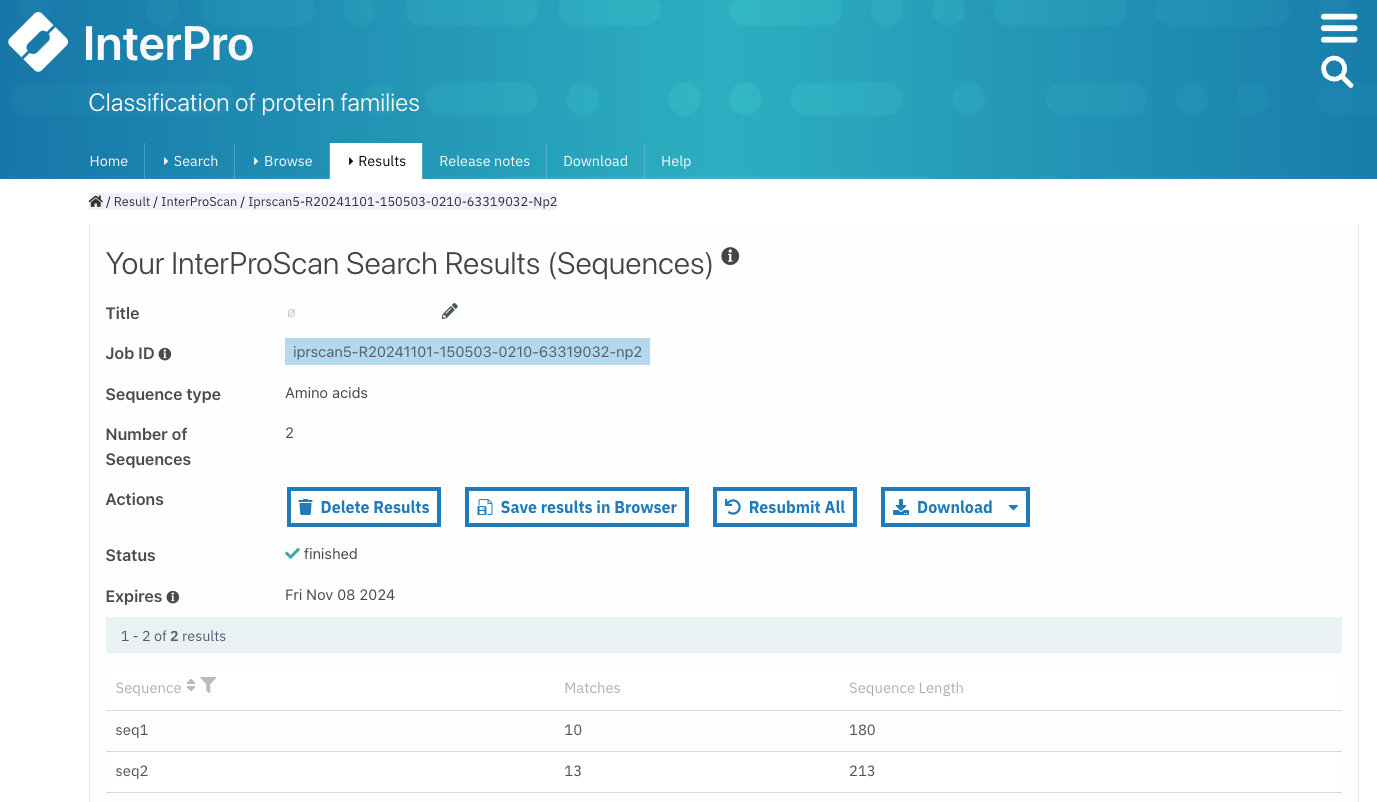
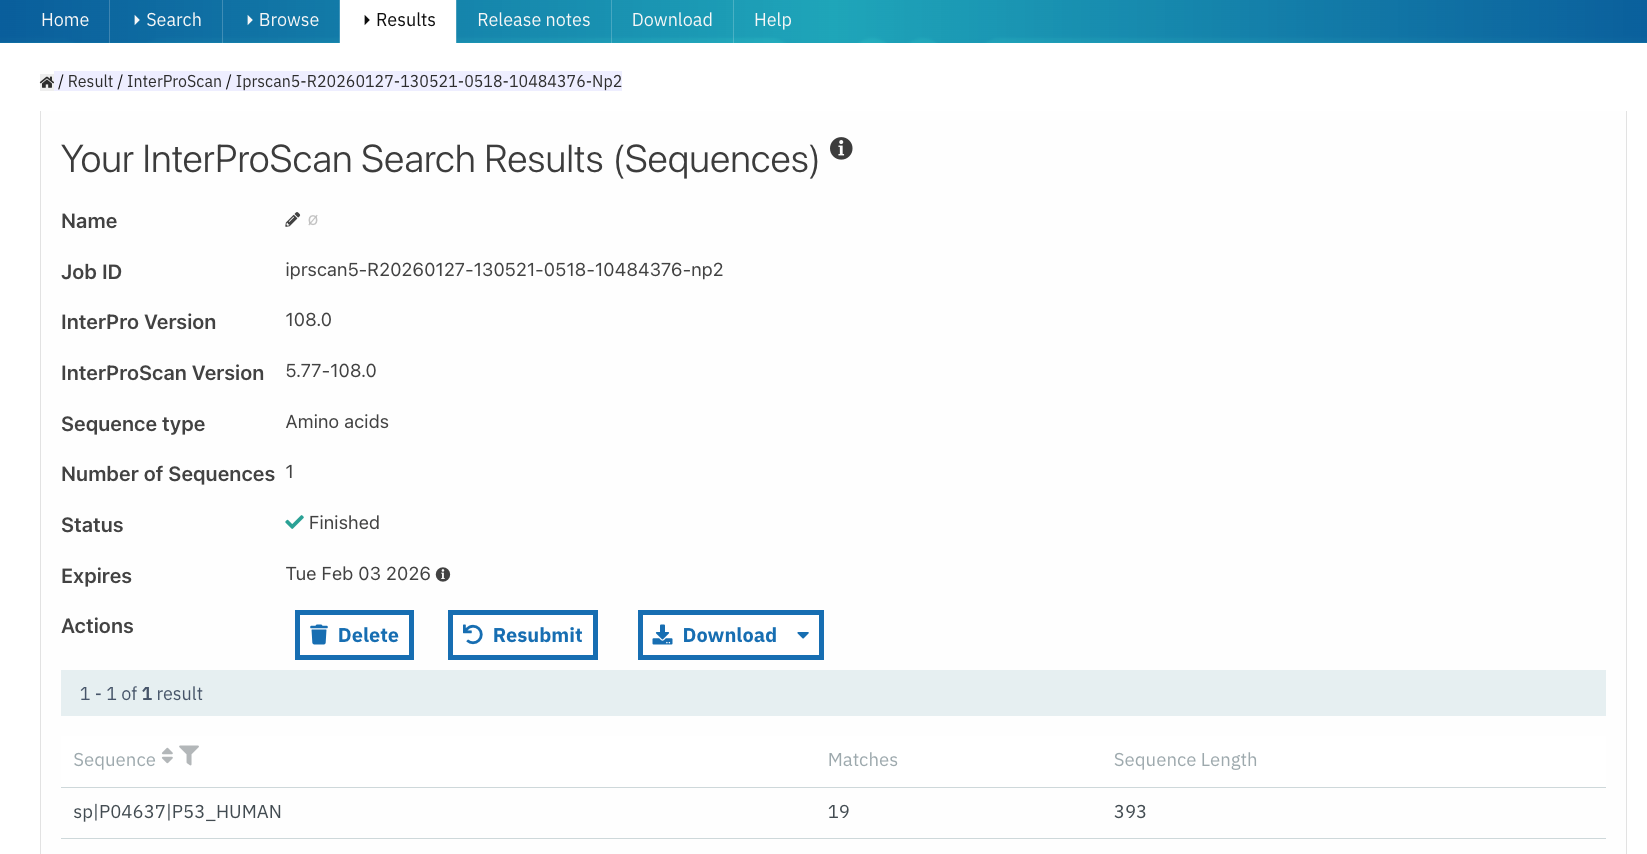
InterPro 108.0 updates

diff --git a/docs/pfam-entry.rst b/docs/pfam-entry.rst
@@ -188,8 +188,9 @@ the predicted structure of this protein in the structure viewer are displayed.
 
 It is also possible to click on the Uniprot accession to go to the InterPro protein page and select the **AlphaFold** tab, where the 
 position of the different entries in the 3D structure viewer are displayed by clicking on the bar corresponding to the entry match in 
-the protein sequence viewer. Besides, on the left hand side of the protein structure viewer there is a drop-down list that allows the 
-user to colour the structure according to the AlphaFold model confidence (default) or the predicted TED domains.
+the protein sequence viewer. Besides, on top of the protein structure viewer there is a drop-down list that allows the 
+user to colour the structure according to the AlphaFold model confidence (default), the predicted TED domains, the representative 
+families or the representative domains.
 
 .. figure:: images/pfam_page/alphafold_TED_colouring.png
   :alt: Example of an InterPro Protein entry page with the AlphaFold tab selected.
